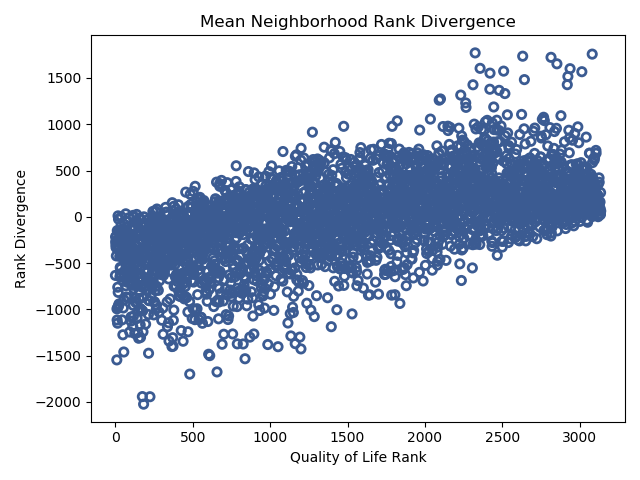
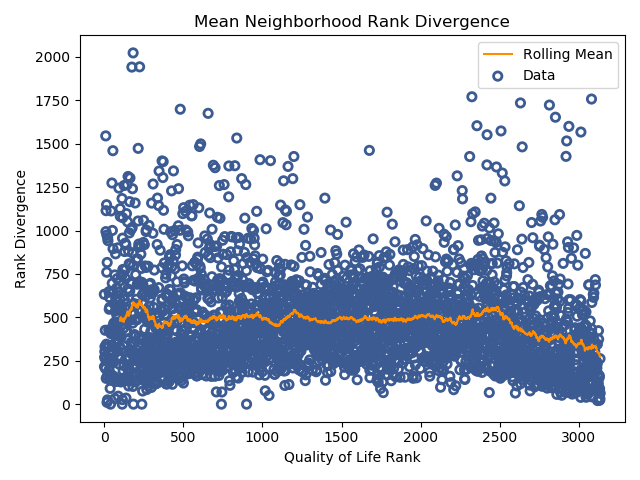
Updated the rank divergence plot to show a rolling mean.

diff --git a/source/county_data_eda.py b/source/county_data_eda.py
@@ -11,10 +11,10 @@ import seaborn as sns
 def main():
     df = load_and_process_data()
 
-    pair_plot(df)
-
-    make_upshot_figure(df)
-    make_modified_upshot_figure(df)
+    # pair_plot(df)
+    #
+    # make_upshot_figure(df)
+    # make_modified_upshot_figure(df)
 
     edge_list = load_edge_list()
     make_neighborhood_rank_divergence_plot(df, edge_list)
@@ -118,7 +118,7 @@ def make_upshot_figure(df):
         margin={"r": 0, "t": 30, "l": 0, "b": 0},
         coloraxis_colorbar=dict(
             tickvals=[0.4, 5.6],
-            ticktext=["Worse", "Better"],
+            ticktext=["Better", "Worse"],
         )
     )
     fig.show()
@@ -162,7 +162,7 @@ def make_modified_upshot_figure(df):
         margin={"r": 0, "t": 30, "l": 0, "b": 0},
         coloraxis_colorbar=dict(
             tickvals=[-1250, 2750],
-            ticktext=["Worse", "Better"],
+            ticktext=["Better", "Worse"],
         )
     )
     fig.show()
@@ -174,14 +174,37 @@ def make_neighborhood_rank_divergence_plot(rank_df, adj_df):
     divergences = np.zeros(len(rank_df.index))
     for i, (county, rank) in enumerate(zip(rank_df['County'], rank_df['rank'])):
         neighbors = adj_df.loc[adj_df.source == county, 'destination']
-        divergences[i] = (rank - rank_df.loc[rank_df.County.isin(neighbors).values, 'rank']).mean()
+
+        if len(neighbors) == 0:
+            neighbors = adj_df.loc[adj_df.destination == county, 'source']
+
+        rank_ind = rank_df.County.isin(neighbors).values
+        neighbor_ranks = rank_df.loc[rank_ind, 'rank']
+        divergence = np.abs(rank - neighbor_ranks).mean()
+        divergences[i] = divergence
+
+        if np.isnan(divergence):
+            print(county)
+            print(neighbors)
+            print(neighbor_ranks)
+
+    rank_df['rank_div'] = divergences
 
     plt.scatter(
-        rank_df['rank'].values, divergences,
+        rank_df['rank'].values,
+        rank_df['rank_div'].values,
         facecolor='None',
         edgecolor=sns.xkcd_rgb["denim blue"],
         linewidth=2,
+        label='Data',
     )
+    plt.plot(
+        rank_df['rank'].values,
+        rank_df['rank_div'].rolling(100).mean(),
+        color='darkorange',
+        label='Rolling Mean',
+    )
+    plt.legend()
     plt.title('Mean Neighborhood Rank Divergence')
     plt.xlabel('Quality of Life Rank')
     plt.ylabel('Rank Divergence')
